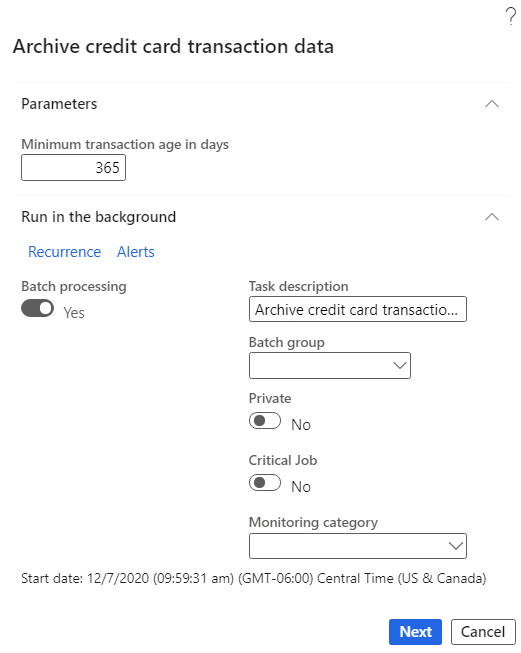
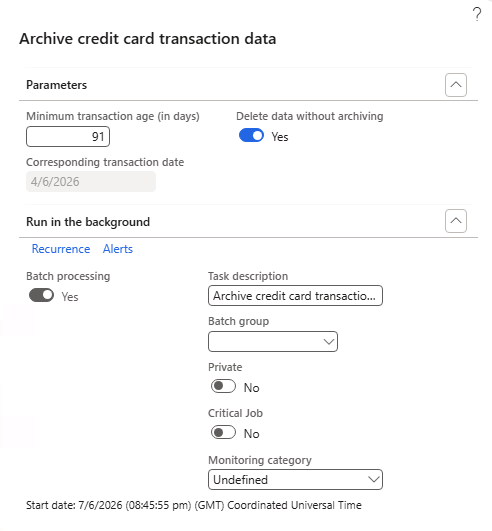
Update archive-cc-data document (#21924)
* update archive-cc-data

* Update archive-cc-data.md

---------

diff --git a/articles/commerce/dev-itpro/archive-cc-data.md b/articles/commerce/dev-itpro/archive-cc-data.md
@@ -2,10 +2,10 @@
 title: Archive credit card transaction data
 description: This article describes an archival job in Microsoft Dynamics 365 Commerce that can help free up space in the database by archiving credit card transactions.
 author: BrianShook
-ms.date: 07/22/2025
+ms.date: 07/30/2026
 ms.topic: how-to
 audience: IT Pro
-ms.reviewer: v-chrgriffin
+ms.reviewer: mirao
 ms.search.region: Global
 ms.author: shajain
 ms.search.validFrom: 2019-01-01
@@ -18,100 +18,102 @@ ms.custom:
 
 [!include [banner](../includes/banner.md)]
 
-This article describes an archival job in Microsoft Dynamics 365 Commerce that can help free up space in the database by archiving credit card payment tokens. This job is available as of the Commerce version 10.0.17 release.
+This article describes an archival job in Microsoft Dynamics 365 Commerce that can help free up space in the database by archiving credit card payment tokens. This job is available starting with the Commerce version 10.0.17 release.
 
-For every credit card authorization, the authentication binary large object ([auth blob](#key-terms)) is stored in the database. Auth blobs contain data that is related to the authorization. Over time, these auth blobs can grow and take up a significant amount of space in the database. The job that is described in this article lets you archive auth blob data by exporting it to Azure Blob storage and then deleting the data from the database.
+For every credit card authorization, the authentication binary large object ([auth blob](#key-terms)) is stored in the database. Auth blobs contain data that is related to the authorization. Over time, these auth blobs can grow and take up a significant amount of space in the database. The job described in this article lets you archive auth blob data by exporting it to Azure Blob storage and then deleting the data from the database.
 
-The parameters for the archival job are based on the age of the transaction in days. For example, if the **Minimum transaction age in days** field for the job is set to **365**, all XML data about credit card authorizations older than 365 days are subject to archiving when the job is run.
+The parameters for the archival job are based on the age of the transaction in days. For example, if you set the **Minimum transaction age in days** field for the job to **365**, all XML data about credit card authorizations older than 365 days are subject to archiving when the job is run.
 
 > [!IMPORTANT]
-> Data can't easily be restored after it's archived, so transactions that are subject to [linked refunds](#key-terms) shouldn't be archived. For example, if a merchant's returns policy allows transactions to be returned for refund to the same credit card within two years, the **Minimum transaction age in days** field for the job should be set to 730 days (two years). In this case, if a transaction is returned after 730 days, the XML required to do a linked refund isn't available. The customer then has to be refunded via a [standalone refund](#key-terms) to either a credit card or some other payment method such as a credit memo or gift card.
+> You can't easily restore data after it's archived, so don't archive transactions that are subject to [linked refunds](#key-terms). For example, if a merchant's returns policy allows transactions to be returned for refund to the same credit card within two years, set the **Minimum transaction age in days** field for the job to 730 days (two years). In this case, if a transaction is returned after 730 days, the XML required to do a linked refund isn't available. The customer then has to be refunded via a [standalone refund](#key-terms) to either a credit card or some other payment method such as a credit memo or gift card.
 
 ## Key terms
 
 | Term | Description |
-|---|---|
-| Auth blob | The response that a credit card processor returns for a payment request. This response is stored in as an XML blob and, over time, can take up a large amount of space in the database. |
+| ---- | ----------- |
+| Auth blob | The response that a credit card processor returns for a payment request. This response is stored as an XML blob. Over time, it can take up a large amount of space in the database. |
 | Linked refund | A refund request that references a previous transaction. Credit card processors consider linked refunds to carry lower risk, and they have lower associated fees. |
 | Standalone refund | A refund request that doesn't reference a previous transaction. Standalone refunds carry higher risk and have higher processing fees. |
 
 ## Document management dependency
 
-When the archival job is run, document management is used to export XML data about aged credit card authorizations in a zip file. If document management isn't set up in an environment, the archival job can't successfully be run. For more information, see [Configure document management](../../fin-ops-core/fin-ops/organization-administration/configure-document-management.md).
+When the archival job runs, document management exports XML data about aged credit card authorizations in a zip file. If you don't set up document management in an environment, the archival job can't successfully run. For more information, see [Configure document management](../../fin-ops-core/fin-ops/organization-administration/configure-document-management.md).
 
-The archival job processes all credit card payment data that meets the criterion that is defined by the **Minimum transaction age in days** value. If the job is active and, based on the defined criterion, a large number of records must be processed, job execution might take several days. However, after the backlog of payments is archived, the job doesn't take as long to run.
+The archival job processes all credit card payment data that meets the criterion defined by the **Minimum transaction age in days** value. If the job is active and, based on the defined criterion, a large number of records must be processed, job execution might take several days. However, after the backlog of payments is archived, the job doesn't take as long to run.
 
-## Data that is in scope for archiving
+## Data in scope for archiving
 
-The archival job archives data in the **PaymentAuthorization**, **PaymentCaptureToken**, and **PaymentCardToken** fields of the **RetailTransactionPaymentTrans** table. Although transactions that are archived don't have associated data in these fields, they can still be returned without linked refunds.
+The archival job archives data in the **PaymentAuthorization**, **PaymentCaptureToken**, and **PaymentCardToken** fields of the **RetailTransactionPaymentTrans** table. Although the archival job removes associated data in these fields, the archived transactions can still be returned without linked refunds.
 
 ## Batch job setup
 
-You can access the archival job in Commerce headquarters at **Retail and Commerce \> Retail and Commerce IT \> Clean up \> Archive credit card transaction data**. 
+You can access the archival job in Commerce headquarters at **Retail and Commerce** > **Retail and Commerce IT** > **Clean up** > **Archive credit card transaction data**.
 
-### Parameters section
+### Parameters
 
 The **Parameters** section of the **Archive credit card transaction data** flyout menu contains the following parameters:
-  - **Minimum transaction age in days** - Setting this parameter is required. Enter the age, in days, of credit card authorizations that are subject to archiving. The value you enter should be the time period that customers can have refunds linked to their original credit card authorization. For example, if you set the field to 365 days, a return for a transaction that is 366 days old might still be eligible for refund, depending on the merchant's policies. However, because the data required to do a linked refund isn't available in Commerce after it's archived, any refund that's processed has to be a standalone refund.
-  - **Delete data without archiving** - When this parameter is set to **Yes**, Commerce deletes (and doesn't archive) the payment tokens and signature capture data for all transactional records that meet the criteria of minimum transaction age in days.
-  - **Corresponding transaction date** - This parameter is a reference field that displays the date in the past that currently corresponds to the value of the **Minimum transaction age in days** parameter. Records older than the date shown are affected by the job.
-  - **Use compression** - When this parameter is set to **Yes**, Commerce compresses tokens to save on storage space. Learn more in [Further storage management with token compression](#further-storage-management-with-token-compression). This parameter is available in Commerce versions 10.0.31 and higher.
+
+- **Minimum transaction age in days**: Required parameter. Enter the age, in days, of credit card authorizations that are subject to archiving. The value you enter should be the time period that customers can have refunds linked to their original credit card authorization. For example, if you set the field to 365 days, a return for a transaction that is 366 days old might still be eligible for refund, depending on the merchant's policies. However, because the data required to do a linked refund isn't available in Commerce after it's archived, any refund that's processed has to be a standalone refund.
+- **Delete data without archiving**: When you set this parameter to **Yes**, Commerce deletes (and doesn't archive) the payment tokens and signature capture data for all transactional records that meet the criteria of minimum transaction age in days.
+- **Corresponding transaction date**: This parameter is a reference field that displays the date in the past that currently corresponds to the value of the **Minimum transaction age in days** parameter. Records older than the date shown are affected by the job.
+- **Use compression**: When you set this parameter to **Yes**, Commerce compresses tokens to save on storage space. For more information, see [Further storage management with token compression](#further-storage-management-with-token-compression). This parameter is available in Commerce versions 10.0.31 and higher.
+
+### Configure the minimum transaction age value
+
+To keep batch run times manageable, set the **Minimum transaction age in days** parameter to a large value so that fewer transactions are processed. The default value of the parameter is 91, which means that transactions older than 91 days are archived. If the environment has millions of transactions, the batch job runs for several hours or days. Therefore, set the parameter value starting from large enough value to smaller values.
 
 ### Run in the background section
 
-The **Run in the background** section of the **Archive credit card transaction data** flyout menu controls the batch functionality and scheduling of the batch job, and contains the following parameters that you can set for your batch job:
+The **Run in the background** section of the **Archive credit card transaction data** flyout menu controls the batch functionality and scheduling of the batch job. It contains the following parameters that you can set for your batch job:
 
-- **Batch processing** - This parameter is set to **Yes** by default and can't be turned off.
-- **Recurrence** - The parameters on the **Recurrence \> Define recurrence** tab allow you to set recurrence timing configurations to run the job.
-- **Alerts** - The parameters on the **Alerts \> Batch job alerts** tab allow you to configure alerts for different events related to the batch job.
-- **Task description** - This parameter specifies the batch job display label.
-- **Batch group** - This parameter can be used to specify batch groups to distribute the workload to different servers.
-- **Private** - When this parameter is set to **Yes**, Commerce restricts other users from processing your batch job. Only the user who configured the form is able to run the job.
-- **Critical Job** - Setting this parameter to **Yes** prioritizes processing capacity for the job.
-- **Monitoring category** - A monitoring category can be assigned to make it easier to identify different types of jobs during monitoring.
+- **Batch processing**: This parameter is set to **Yes** by default and you can't turn it off.
+- **Recurrence**: The parameters on the **Recurrence** > **Define recurrence** tab allow you to set recurrence timing configurations to run the job.
+- **Alerts**: The parameters on the **Alerts** > **Batch job alerts** tab let you configure alerts for different events related to the batch job.
+- **Task description**: This parameter specifies the batch job display label.
+- **Batch group**: This parameter specifies batch groups to distribute the workload to different servers.
+- **Private**: When you set this parameter to **Yes**, Commerce restricts other users from processing your batch job. Only the user who configured the form can run the job.
+- **Critical Job**: Setting this parameter to **Yes** prioritizes processing capacity for the job.
+- **Monitoring category**: You can assign a monitoring category to make it easier to identify different types of jobs during monitoring.
 
 The following illustration shows an example of parameter settings in the **Archive credit card transaction data** dialog box.
 
-![Parameter settings in the Archive credit card transaction data dialog box.](media/PAYMENTS/Batch1.png)
+:::image type="content" source="media/PAYMENTS/Batch1.png" alt-text="Parameter settings in the Archive credit card transaction data dialog box." lightbox="media/PAYMENTS/Batch1.png":::
 
-After you set the **Minimum transaction age in days** field and batch details, select **Next** to view a sample of the data to be exported. The following illustration shows an example. Although the data in this sample is limited, all data that is subject to archiving can be exported.
+After you set the **Minimum transaction age in days** field and batch details, select **Next** to view a sample of the data to be exported. The following illustration shows an example. Although the data in this sample is limited, you can export all data that is subject to archiving.
 
-![Sample of data that to be exported.](media/PAYMENTS/Batch2.png)
+:::image type="content" source="media/PAYMENTS/Batch2.png" alt-text="Sample of exported data." lightbox="media/PAYMENTS/Batch2.png":::
 
 > [!IMPORTANT]
-> The data that is subject to archiving includes personally identifiable customer information such as the name of the cardholder. This sensitive data should be handled according to your local regulatory requirements.
+> The data that is subject to archiving includes personally identifiable customer information such as the name of the cardholder. Handle this sensitive data according to your local regulatory requirements.
 
 After you confirm the parameters of the data to be archived, you're prompted to confirm that you understand that the data is being archived and can't easily be restored, as shown in the following illustration.
 
-![Confirmation message box.](media/PAYMENTS/Batch3.png)
+:::image type="content" source="media/PAYMENTS/Batch3.png" alt-text="Confirmation message box." lightbox="media/PAYMENTS/Batch3.png":::
 
-After you select **Yes**, the archival job becomes active, and all XML data about credit card authorizations that is older than the **Minimum transaction age in days** value will be subject to archiving.
+After you select **Yes**, the archival job becomes active, and all XML data about credit card authorizations that is older than the **Minimum transaction age in days** value is subject to archiving.
 
 ## Further storage management with token compression
 
-To decrease the footprint of underlying storage tables, you can compress tokens by enabling the **Compress payment tokens** feature. Enabling this feature flag allows the system to use compression on stored payment property tokens. 
+To reduce the footprint of the underlying storage tables, compress tokens by enabling the **Compress payment tokens** feature. When you enable this feature flag, the system uses compression on stored payment property tokens.
 
 > [!IMPORTANT]
 > To use the **Compress payment tokens** feature, your system must be running Commerce version 10.0.25 or later and point-of-sale (POS) version 9.35 or later.
 
 To enable the **Compress payment tokens** feature in headquarters, follow these steps:
 
-1. Go to **Workspaces \> Feature management**. 
+1. Go to **Workspaces** > **Feature management**.
 1. Under **All**, search for the **Compress payment tokens** feature.
 1. Select the feature, and then select **Enable now** in the properties pane.
 
-After the **Compress payment tokens** feature is enabled, you can set the **Use compression** parameter in the **Archive credit card transaction data** parameters section to **Yes**.
+After you enable the **Compress payment tokens** feature, set the **Use compression** parameter in the **Archive credit card transaction data** parameters section to **Yes**.
 
 > [!IMPORTANT]
-> The **Use compression** parameter is displayed seven days after enabling the feature in the feature management. This restriction may be removed in future releases based on customer feedback.
+> The **Use compression** parameter appears seven days after enabling the feature in the feature management.
 
-## Additional resources
+## More resources
 
-[Payments FAQ](/dynamics365/unified-operations/retail/dev-itpro/payments-retail)
-
-[Dynamics 365 Payment Connector for Adyen](adyen-connector.md?tabs=8-1-3)
-
-[Checkout module](../add-checkout-module.md)
-
+- [Payments FAQ](/dynamics365/unified-operations/retail/dev-itpro/payments-retail)
+- [Dynamics 365 Payment Connector for Adyen](adyen-connector.md?tabs=8-1-3)
+- [Checkout module](../add-checkout-module.md)
 
 [!INCLUDE[footer-include](../../includes/footer-banner.md)]